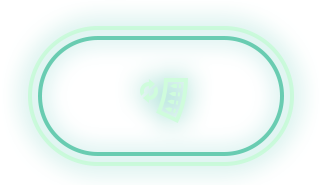
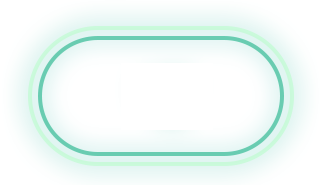
black +bullet holder images

Changed region(s): [[0.4308, 0.3784, 0.6154, 0.6757]]

diff --git a/src/ru/rep1/game/BulletsHolder.java b/src/ru/rep1/game/BulletsHolder.java
@@ -5,6 +5,10 @@ import java.awt.geom.Line2D;
 import java.awt.geom.Point2D;
 import java.awt.geom.Rectangle2D;
 import java.util.stream.Stream;
+
+import static ru.rep1.game.Constant.BULLETHOLDER_MAX;
+import static ru.rep1.game.Constant.BULLETHOLDER_RELOAD;
+import static ru.rep1.game.Constant.BULLETHOLDER_WAIT;
 import static ru.rep1.game.Scale.*;
 
 /**
@@ -12,10 +16,10 @@ import static ru.rep1.game.Scale.*;
  */
 public class BulletsHolder implements Drawable {
     private Rectangle2D rect;
-    private Image bulletImage;
+    private Image[] bulletImage;
     private Image magazineImage;
 
-    private final int MAX = 7;
+    private final int MAX = BULLETHOLDER_MAX;
     private volatile int currentCount = MAX;
 
     private final int WIDTH = 70;
@@ -26,18 +30,20 @@ public class BulletsHolder implements Drawable {
 
     private void initView() {
 
-        bulletImage = Utils.loadImage("bullet.png");
+        bulletImage = new Image[]{
+                Utils.loadImage("black/bullets_holder/bullets_0.png"),
+                Utils.loadImage("black/bullets_holder/bullets_1.png"),
+                Utils.loadImage("black/bullets_holder/bullets_2.png"),
+                Utils.loadImage("black/bullets_holder/bullets_3.png"),
+                Utils.loadImage("black/bullets_holder/bullets_full.png")};
         magazineImage = Utils.loadImage("black/bullets_holder/magazine.png");;
     }
 
     private void drawBullets(Graphics g) {
         Graphics2D g2 = (Graphics2D) g.create();
-        int x = 537;
         synchronized (BulletsHolder.class) {
-            for (int i = 0; i < currentCount; i++) {
-                x += 30;
-                g2.drawImage(bulletImage, x, 210, null);
-            }
+            Image bullets = bulletImage[Math.min((int)Math.ceil(4 * (currentCount / (double)MAX)), 4)];
+            g2.drawImage(bullets, (int)$(1600), (int)$(572), (int)$(92), (int)$(67), null);
         }
         g2.dispose();
     }
@@ -54,7 +60,7 @@ public class BulletsHolder implements Drawable {
         g2.dispose();
     }
 
-    private volatile boolean flag;
+    private volatile boolean flag = true;
     private volatile boolean working;
 
     public boolean getBullet() {
@@ -63,7 +69,7 @@ public class BulletsHolder implements Drawable {
                 working = true;
                 new Thread(() -> {
                     try {
-                        Thread.sleep(1000);
+                        Thread.sleep(BULLETHOLDER_WAIT);
                     } catch (InterruptedException e) {
                         e.printStackTrace();
                     }
@@ -90,7 +96,7 @@ public class BulletsHolder implements Drawable {
         new Thread(() -> {
 
             try {
-                Thread.sleep(2000);
+                Thread.sleep(BULLETHOLDER_RELOAD);
             } catch (InterruptedException e) {
                 e.printStackTrace();
             }
@@ -110,7 +116,7 @@ public class BulletsHolder implements Drawable {
 
         drawMagazine(g);
 
-        //drawBullets(g);
+        drawBullets(g);
 
 
         synchronized (BulletsHolder.class) {

diff --git a/src/ru/rep1/game/black/Lab.java b/src/ru/rep1/game/black/Lab.java
@@ -108,8 +108,7 @@ public class Lab extends JPanel implements Runnable {
                 winner.setTrajectory(new Point2D[]{
                         $(new Point2D.Double(1045, 422)),
                         $(new Point2D.Double(815, 440)),
-                        $(new Point2D.Double(822, 792)),
-                        $(new Point2D.Double(1232, 792))});
+                        $(new Point2D.Double(813, 508))});
                 winner.setTrajectorySpeed(0.6D);
                 winner.moveByTrajectory();
             } else {
@@ -207,7 +206,8 @@ public class Lab extends JPanel implements Runnable {
     }
 
     private void fire() {
-        if(!tempController.isOverheat()) {
+        if(!tempController.isOverheat() && bulletsHolder.getBullet()) {
+            EventBus.getInstance().publish(Constant.Event.ON_FIRE.name());
             Bullet bullet = new Bullet();
             bullet.setX((int) cannon.getFirePosition().getX());
             bullet.setY((int) cannon.getFirePosition().getY());
@@ -248,7 +248,7 @@ public class Lab extends JPanel implements Runnable {
             });
 
             if (state == Constant.State.PLAY) {
-                Stream.of(targets).forEach((t) -> {
+                Stream.of(targets).filter(t -> !t.isShot()).forEach((t) -> {
                     t.move();
                 });
             }

diff --git a/src/ru/rep1/game/Constant.java b/src/ru/rep1/game/Constant.java
@@ -11,8 +11,12 @@ public class Constant {
     public static final double GLOBAL_SCALE = ORIGINAL_WIDTH / (double)GAME_WIDTH;
     public static final double GLOBAL_SCALE_REV = 1.0D/ GLOBAL_SCALE;
 
-    public static final long COOLING_SPEED = 1000;
+    public static final long COOLING_SPEED = 2000;
     public static final double TARGET_SPEED = 3D;
+
+    public static final int BULLETHOLDER_MAX = 10;
+    public static final int BULLETHOLDER_WAIT = 500;
+    public static final int BULLETHOLDER_RELOAD = 2000;
 
     public enum State {
         INTRO,
@@ -29,7 +33,9 @@ public class Constant {
         ON_RELOAD_END,
         ON_TARGET_IN_PLACE,
         ON_GAME_OUTRO,
-        ON_GAME_FINISH
+        ON_GAME_FINISH,
+
+        ON_FIRE
     }
 
 }
